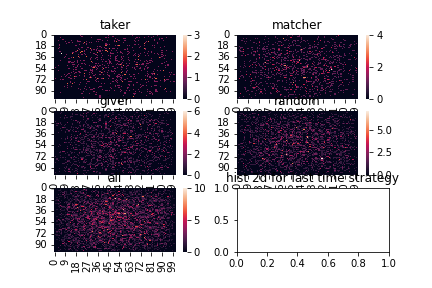
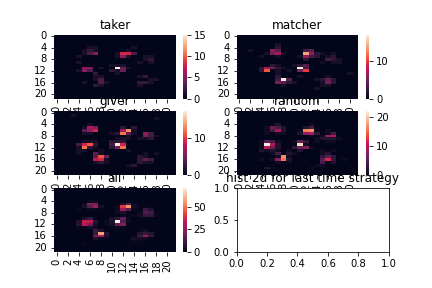
ver0.2 コミュニティ・クラスターの認識、コミュニティごとに戦略の適応度を評価するように変更

diff --git a/README.md b/README.md
@@ -13,11 +13,9 @@ random：
 〇共通で追加したい機能
 ・移動先を選ぶときに、多くのエージェントがいる方向への移動が選択されやすいようにしているが、どの程度偏らせるかは、エージェントごとに固有のパラメータを持たせている
 
-・各エージェントはたまに戦略を移動する。戦略を移行するときは、相対的にうまくいっている戦略に高確率で移行する。
+・各エージェントはたまに戦略を移動する。戦略を移行するときは、相対的にうまくいっている戦略に高確率で移行する。各エージェントが戦略を変更するときの遷移確率を、同じコミュニティ内における適応度の高い戦略ほど高くなるようにする。
 
 ・現在の適応度が低いほどほかの戦略に移行しやすく、現在の適応度が高いほどほかの戦略に移行しずらいようにする。戦略移行確立を「コミュニティ内の相対的な適応度の高さの関数」にする場合と、「全コミュニティで共通のかつ不変な適応度の変数、の関数」にする場合、両方できれば。
-
-・各エージェントが戦略を変更するときの遷移確率を、同じコミュニティ内における適応度の高い戦略ほど高くなるようにする
 
 
 
